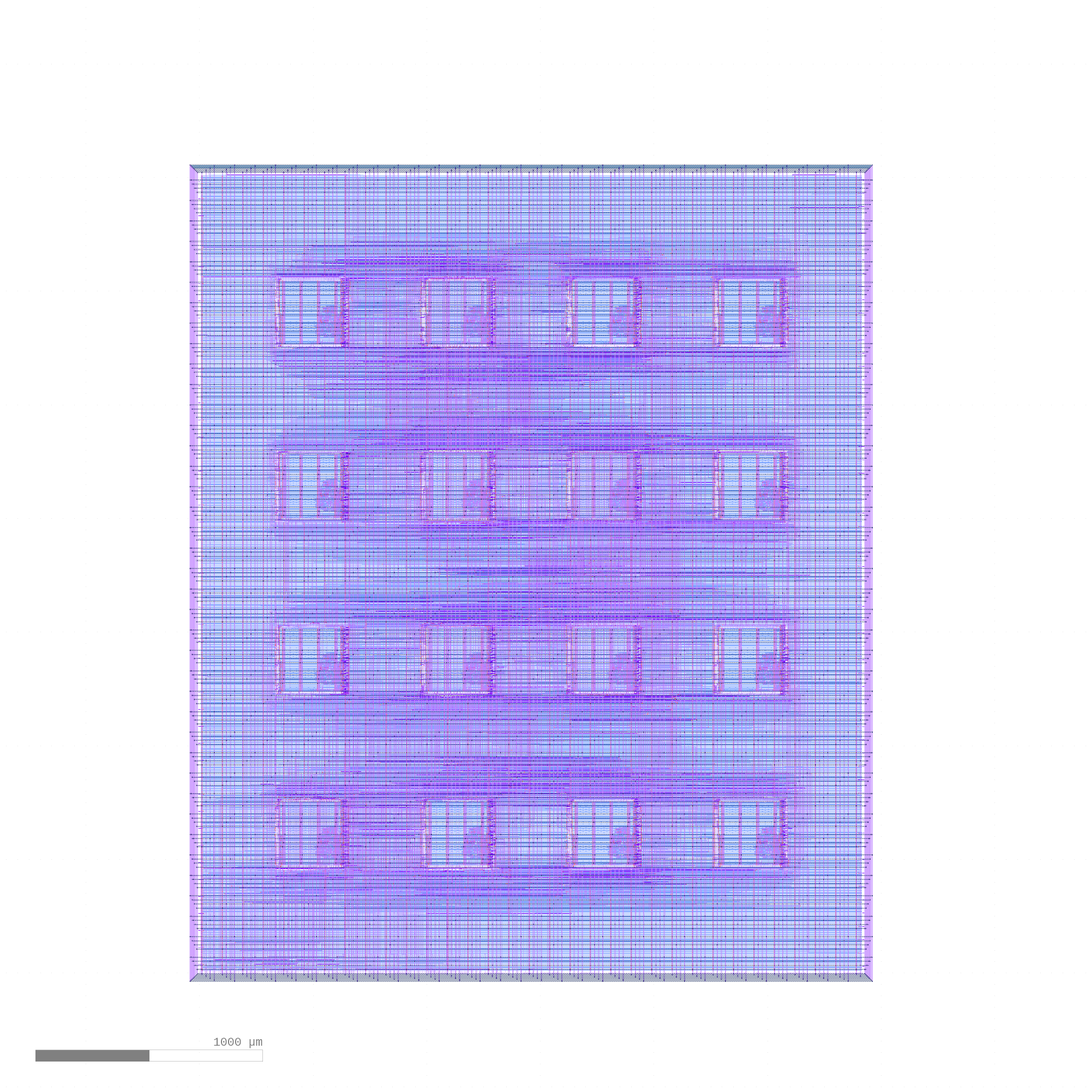
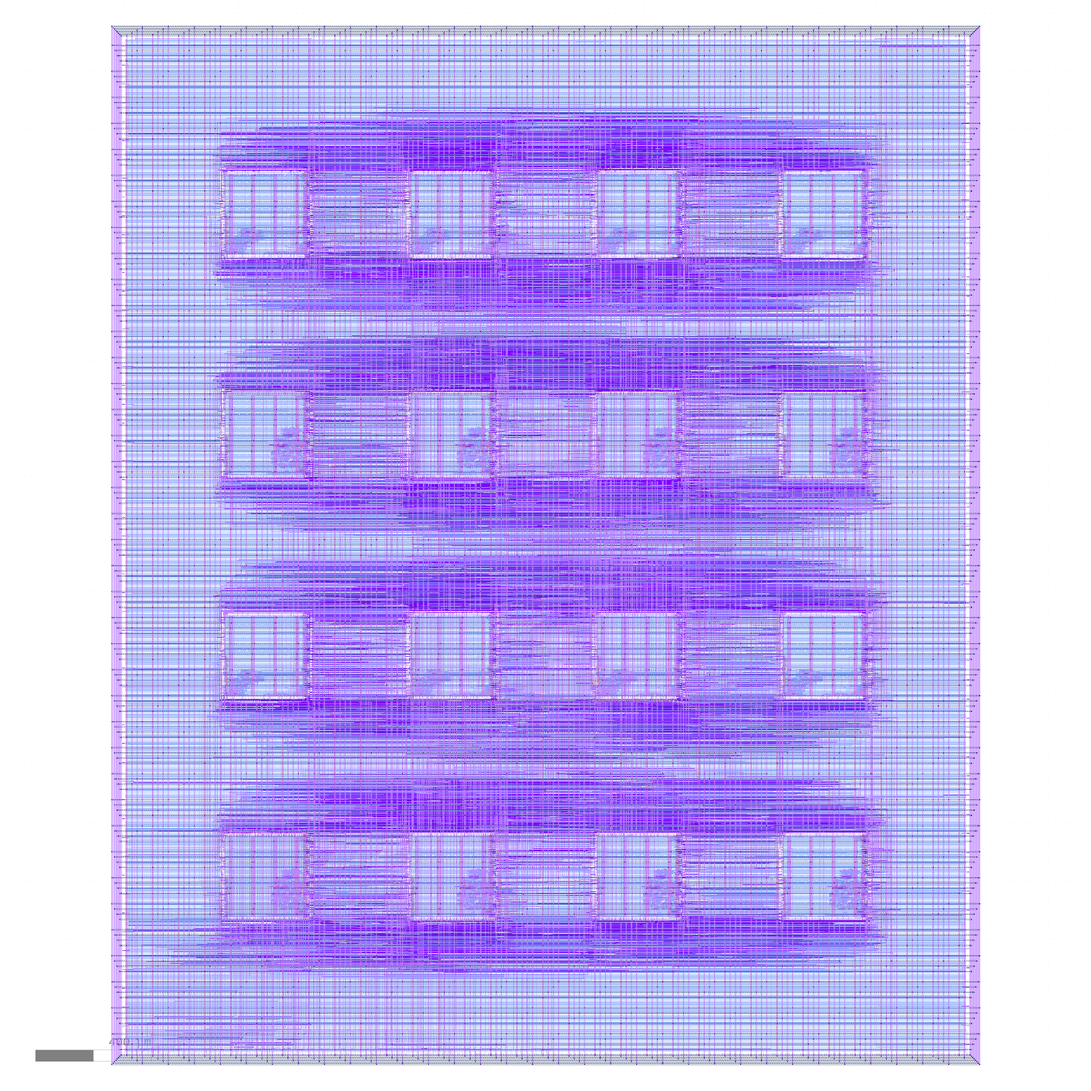
update readme and pic

diff --git a/README.md b/README.md
@@ -10,7 +10,7 @@ This index was made with [multi project tools](https://github.com/mattvenn/multi
 
 The OpenLANE config was generated with this command:
 
-    ./multi_tool.py --create-openlane-config --project 0 --duplicate 15 --force-delete
+    ./multi_tool.py --create-openlane-config --copy-gds --fill 16 --force-delete
 
 ![multi macro](pics/multi_macro.png)
 
